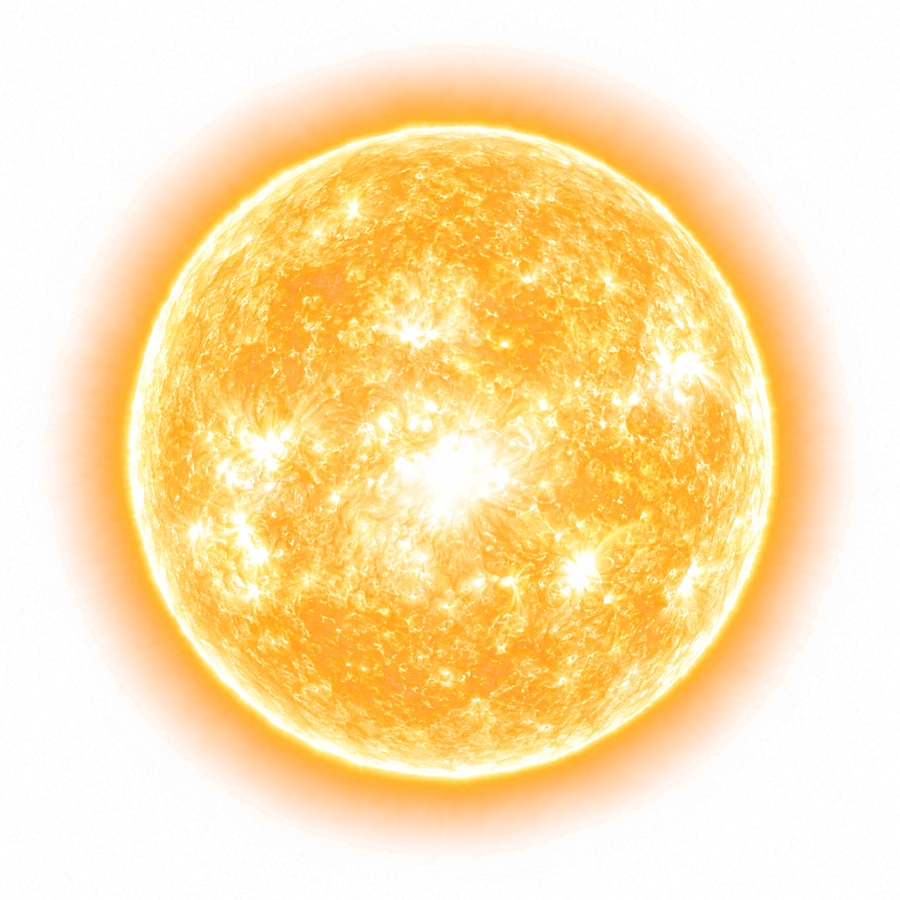
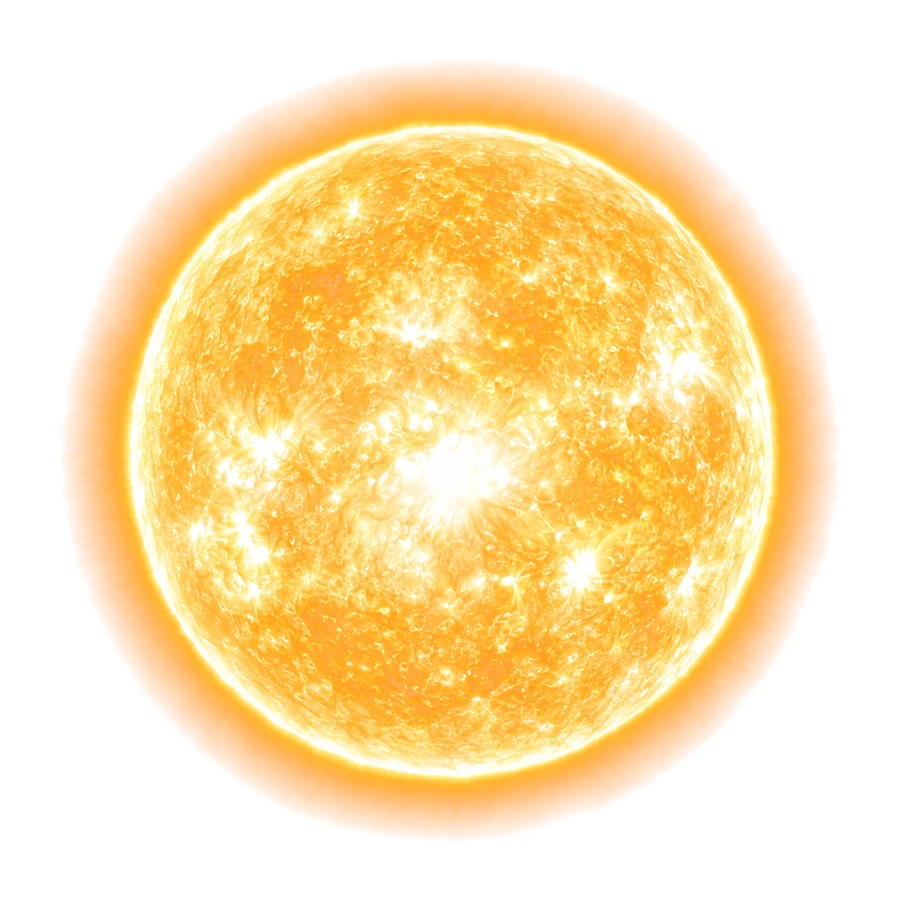
Sonne und Saturn sauber freigestellt: kein sichtbarer Kasten mehr (Saturn per screen), Sonnen-Alpha sauberer

diff --git a/index.html b/index.html
@@ -149,8 +149,9 @@ img { display: block; max-width: 100%; height: auto; }
 /* 26.09. (Emre): Mond leuchtender – weiter, weicher Schein, dazu ein enger heller Hof */
 .mond__hof { width: calc(var(--sonne-r) * 16); height: calc(var(--sonne-r) * 16); background: radial-gradient(closest-side, rgba(255, 210, 150, 0.24), rgba(255, 180, 110, 0.1) 32%, rgba(255, 170, 100, 0.03) 62%, rgba(255, 170, 100, 0) 100%); }
 /* Saturn als drehendes Video statt Mond (Emre, 26.09.): rechts oben, Rand weich ausgeblendet, damit der schwarze Videorahmen im Nachthimmel verschwindet */
-.mond__saturn { width: calc(var(--sonne-r) * 7); height: calc(var(--sonne-r) * 7); object-fit: contain; border-radius: 0; background: transparent;
-  -webkit-mask-image: radial-gradient(closest-side, #000 60%, rgba(0,0,0,0.6) 74%, transparent 86%); mask-image: radial-gradient(closest-side, #000 60%, rgba(0,0,0,0.6) 74%, transparent 86%); }
+.mond__saturn { position: absolute; left: 0; top: 0; transform: translate(-50%, -50%); width: calc(var(--sonne-r) * 7.5); height: calc(var(--sonne-r) * 7.5); object-fit: contain; background: transparent;
+  mix-blend-mode: screen;  /* Schwarz verschwindet komplett – kein sichtbarer Video-Kasten */
+  -webkit-mask-image: radial-gradient(closest-side, #000 82%, transparent 100%); mask-image: radial-gradient(closest-side, #000 82%, transparent 100%); }
 .mond__kern { width: calc(var(--sonne-r) * 1.5); height: calc(var(--sonne-r) * 1.5);
   background: radial-gradient(circle at 36% 40%, rgba(170, 170, 160, 0.35) 0 9%, transparent 10%), radial-gradient(circle at 60% 62%, rgba(170, 170, 160, 0.28) 0 12%, transparent 13%), radial-gradient(circle at 62% 30%, rgba(170, 170, 160, 0.22) 0 6%, transparent 7%), radial-gradient(circle at 44% 44%, #FDFBF3 0 40%, #E9E5D8 60%, #D5D0C3 68%, rgba(210, 205, 190, 0) 71%); }
 
@@ -500,8 +501,8 @@ img { display: block; max-width: 100%; height: auto; }
       <div class="himmel himmel--blau"></div>
       <div class="himmel himmel--nacht"></div>
       <div class="sterne"></div>
-      <div class="sonne"><b class="sonne__hof"></b><img class="sonne__echt sonne__echt--tag" src="bilder/hero/himmel/sonne-tag.webp?v=2" alt="" aria-hidden="true"><img class="sonne__echt sonne__echt--abend" src="bilder/hero/himmel/sonne-abend.webp?v=2" alt="" aria-hidden="true"></div>
-      <div class="mond"><b class="mond__hof"></b><video class="mond__saturn" autoplay muted loop playsinline preload="none" aria-hidden="true"><source src="bilder/hero/himmel/saturn.mp4?v=2" type="video/mp4"></video></div>
+      <div class="sonne"><b class="sonne__hof"></b><img class="sonne__echt sonne__echt--tag" src="bilder/hero/himmel/sonne-tag.webp?v=3" alt="" aria-hidden="true"><img class="sonne__echt sonne__echt--abend" src="bilder/hero/himmel/sonne-abend.webp?v=3" alt="" aria-hidden="true"></div>
+      <div class="mond"><video class="mond__saturn" autoplay muted loop playsinline preload="none" aria-hidden="true"><source src="bilder/hero/himmel/saturn.mp4?v=3" type="video/mp4"></video></div>
     </div>
     <div class="szene__ebene" data-ebene="weit" aria-hidden="true"></div>
     <div class="szene__ebene" data-ebene="fern" aria-hidden="true"></div>
@@ -707,7 +708,7 @@ img { display: block; max-width: 100%; height: auto; }
   </nav>
 </footer>
 
-<script src="js/szene.js?v=30"></script>
+<script src="js/szene.js?v=31"></script>
 <script>
 /* Navigation beim Runterscrollen ausblenden, Inhalte einmal sanft einblenden */
 (function () {
